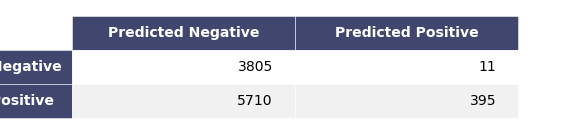
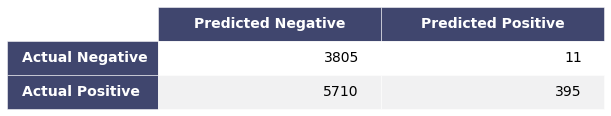
update readme with neural net stuff. update images

diff --git a/README.md b/README.md
@@ -54,18 +54,20 @@ Working on the training set only, we did some EDA to look at the distribution of
 We chose 3 different models to test: Neural Networks, Random Forest, and Gradient Boosting Classification. We decided to evaluate our models on the following metrics: Accuracy, Precision, Recall, and the ROC curve. 
 
 
-<b> Neural Networks</b>
+### Neural Network Model
 
 The idea behind the neural network model approach was to run a model with a large set of arbitrariliy engineered features. The original features were included in the model fit, as well as various operations on all non-binary feature types. These operations included:
 - squaring
 - cubing
 - exponentiating
+- taking the log
+- inverting
 - taking the sine and cosine
 - multiplying all combinations of two features
 
-This creted a dataset with 97 total features. Because of this arbitrary feature engineering, feature importance was not investigated for this model.
+This created a dataset with 110 total features. Because of this arbitrary feature engineering, feature importance was not investigated for this model.
 
-The input hyperparameters for the final neural network model include:
+Moderate tuning of the hyperparameters was done to achieve a final, satisfactory model. The input hyperparameters for the final neural network model include:
 - 1000 epochs
 - 3 hidden layers:
     - The first layer with ReLU activation
@@ -76,19 +78,30 @@ The input hyperparameters for the final neural network model include:
 - 0.01 optimizer learning rate
 
 <p align='middle'>
-    <td><img src='img/metrics_nn.png' align='center' style='width: 800px;'></td>
+    <td><img src='./img/metrics_nn.png' align='center' style='width: 800px;'></td>
 </p>
 
-Moderate tuning of the hyperparameters was done to achieve this final model.
+A confusion matrix with a threshold of 50% can be seen here:
 
+<br>
+<center>
+<img src="img/nn_conf_mat.png" alt="Drawing" style="width: 400px;" align="center"/>
+</center>
+<center>
+<b>Accuracy:</b> 57% | <b>Precision:</b> 80% | <b>Recall:</b> 43%
+</center>
+<br>
+<br>
+
+This matrix shows a large amount of false negatives, with a relatively small amount of false positives, so it is great at predicting positives but not negatives. This explains the high relative precision and low accuracy and recall.
 
 <p align='middle'>
-    <td><img src='img/roc_nn.png' align='center' style='width: 500px;'></td>
+    <td><img src='./img/roc_nn.png' align='center' style='width: 500px;'></td>
 </p>
 
-The ROC curve resides in the same range as the other models analyzed.
+The final model seems to make predictions in line with the Random Forest and Gradient Boosting models. However, the metrics here on the training data do not reflect similar values as the other models. The lack of interpretability of the neural network and the challenges in tuning the hyperparameters are among the reasons for not choosing to move forward with this model.
 
-<b> Random Forest</b>
+### Random Forest Model
 
 
 We used the following metrics to compare our models including log loss, accuracy, confusion matrices, precision, and recall.  Below are the definitions.
@@ -210,6 +223,9 @@ The most influential features are: average rating by driver, surge percent, week
 
 The ROC curves for each model were plotted on top of each other, showing that each model performs similarly to the others. Ultimately it was decided that the best model to select for testing was <>. The final results are shown below. 
 
+<p align='middle'>
+    <td><img src='./img/roc_overlay.png' align='center' style='width: 500px;'></td>
+</p>
 
 
 ## Summary and Key Findings
